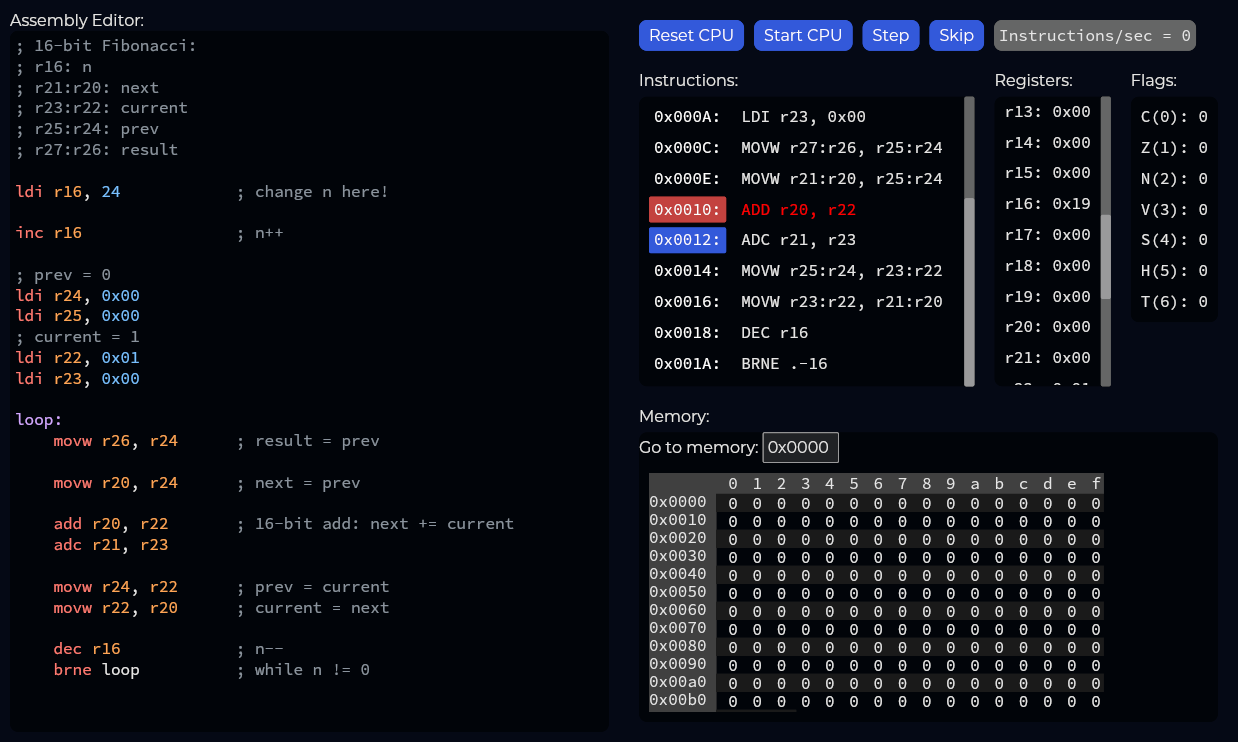
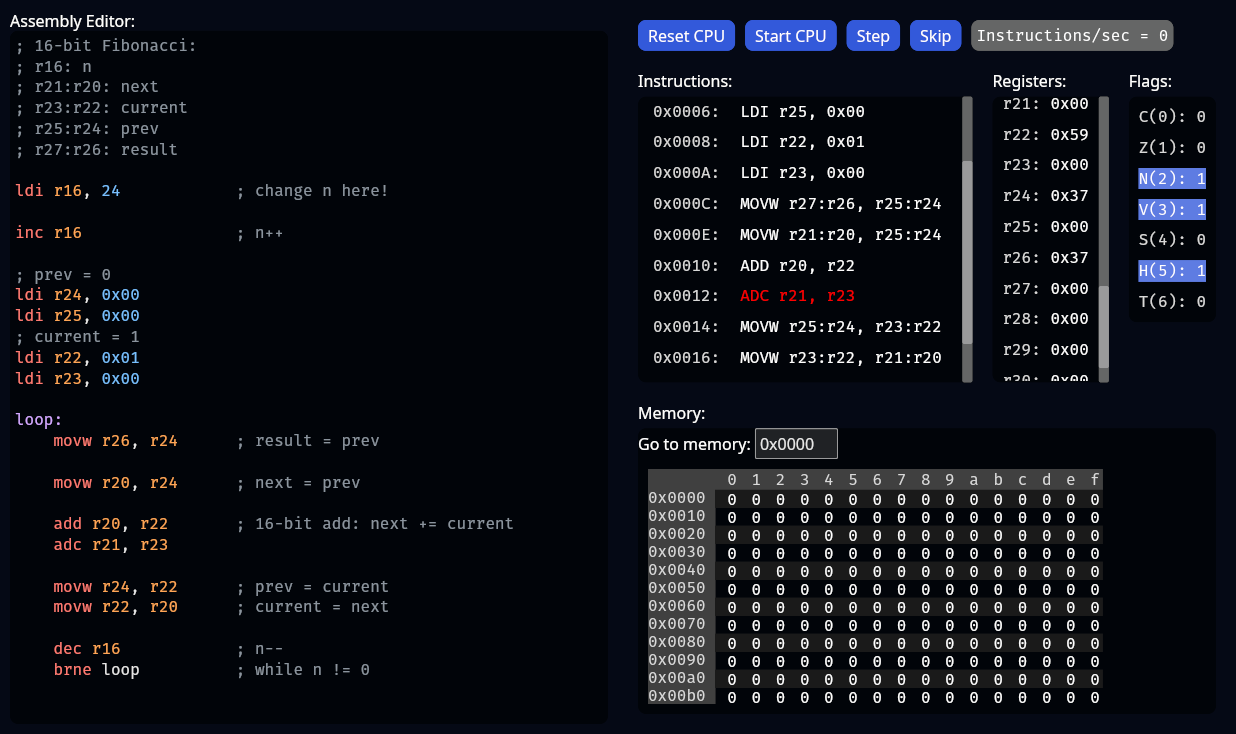
gui: only rerenders on cpu emu change, more text color indicators

diff --git a/ardemu_gui/src/main.rs b/ardemu_gui/src/main.rs
@@ -32,7 +32,7 @@ mod highlighter;
 mod style;
 use style::{
 	background_style, button_style, format_big_number, hidden_secondary_button_style, panel_style,
-	text_editor_style,
+	secondary_text_style, text_editor_style,
 };
 
 mod code_editor;
@@ -60,6 +60,7 @@ struct App {
 	simulate_cpu: bool,
 	cpu_sim: triple_buffer::Output<CpuSim>,
 	cpu_sim_message_sender: std::sync::mpsc::Sender<CpuSimMessage>,
+	cpu_sim_dirty: bool,
 	memory_view_start_address: u32,
 	memory_view_start_address_input: Option<String>,
 	asm_source_code_text_content: text_editor::Content,
@@ -84,9 +85,10 @@ impl Default for App {
 		std::thread::spawn(move || cpu_simulation_thread(receiver, cpu, writable_cpu_sim));
 
 		Self {
-			cpu_sim: readable_cpu_sim,
 			simulate_cpu: false,
+			cpu_sim: readable_cpu_sim,
 			cpu_sim_message_sender: sender,
+			cpu_sim_dirty: false,
 			memory_view_start_address: 0,
 			memory_view_start_address_input: None,
 			asm_source_code_text_content: text_editor::Content::with_text(&asm_source_code),
@@ -118,8 +120,14 @@ impl App {
 
 	fn subscription(&self) -> Subscription<Message> {
 		match &self.asm_program {
-			Ok(_) => window::frames().map(|_| Message::UpdateCpuState),
-			_ => Subscription::none(),
+			Ok(_) if self.simulate_cpu => window::frames().map(|_| Message::UpdateCpuState),
+			_ => {
+				if self.cpu_sim_dirty {
+					window::frames().map(|_| Message::UpdateCpuState)
+				} else {
+					Subscription::none()
+				}
+			}
 		}
 	}
 
@@ -131,6 +139,7 @@ impl App {
 		if let Err(e) = self.cpu_sim_message_sender.send(message) {
 			eprintln!("Could not send CPU sim message: {e}");
 		};
+		self.cpu_sim_dirty = true;
 	}
 
 	fn update(&mut self, message: Message) {
@@ -160,7 +169,9 @@ impl App {
 				self.update(Message::ResetCpu);
 			}
 			Message::UpdateCpuState => {
-				self.cpu_sim.update();
+				if self.cpu_sim.update() {
+					self.cpu_sim_dirty = false;
+				}
 			}
 			Message::AddBreakpoint(address) => {
 				self.send_cpu_sim_message(CpuSimMessage::AddBreakpoint(address));
@@ -258,27 +269,30 @@ impl App {
 										program_counter == program_address;
 
 									row![
-										button(text!("{program_address}:").font(Font::MONOSPACE))
-											.style(move |t, s| {
-												if breakpoint_set_here {
-													if instr_currently_executing {
-														button::danger(t, s)
-													} else {
-														button::primary(t, s)
-													}
+										button(
+											text!("{program_address}:")
+												.font(Font::MONOSPACE)
+												.style(secondary_text_style)
+										)
+										.style(move |t, s| {
+											if breakpoint_set_here {
+												if instr_currently_executing {
+													button::danger(t, s)
 												} else {
-													hidden_secondary_button_style(t, s)
+													button::primary(t, s)
 												}
-											})
-											.padding(Padding::new(2.5).left(5.0).right(5.0))
-											.on_press(
-												if cpu.get_breakpoints().contains(&program_address)
-												{
-													Message::RemoveBreakpoint(program_address)
-												} else {
-													Message::AddBreakpoint(program_address)
-												}
-											),
+											} else {
+												hidden_secondary_button_style(t, s)
+											}
+										})
+										.padding(Padding::new(2.5).left(5.0).right(5.0))
+										.on_press(
+											if cpu.get_breakpoints().contains(&program_address) {
+												Message::RemoveBreakpoint(program_address)
+											} else {
+												Message::AddBreakpoint(program_address)
+											}
+										),
 										text!("{instruction}").font(Font::MONOSPACE).color_maybe(
 											if instr_currently_executing {
 												Some(Color::from_rgb(1.0, 0.0, 0.0))
@@ -316,9 +330,13 @@ impl App {
 					let value = Imm8(cpu.read_register(*reg));
 					let padding_space = if *reg <= R9 { " " } else { "" };
 
-					text(format!("{reg}: {padding_space}{value}"))
-						.font(Font::MONOSPACE)
-						.into()
+					row![
+						text!("{reg}: {padding_space}")
+							.font(Font::MONOSPACE)
+							.style(secondary_text_style),
+						text!("{value}").font(Font::MONOSPACE)
+					]
+					.into()
 				}))
 				.spacing(10)
 				.padding(Padding::new(10.0).right(20))
@@ -334,9 +352,30 @@ impl App {
 			text("Flags:"),
 			container(scrollable(
 				Column::with_children(FlagType::ALL.iter().map(|flag_type| {
-					text!("{flag_type}: {}", cpu.flags().get(*flag_type) as u8)
-						.font(Font::MONOSPACE)
-						.into()
+					let flag_set = cpu.flags().get(*flag_type);
+
+					container(
+						text!("{flag_type}: {}", flag_set as u8)
+							.font(Font::MONOSPACE)
+							.style(if flag_set {
+								move |_t: &Theme| text::Style {
+									color: Some(Color::WHITE),
+								}
+							} else {
+								secondary_text_style
+							}),
+					)
+					.style(move |t: &Theme| {
+						if flag_set {
+							container::Style {
+								background: Some(t.extended_palette().primary.base.color.into()),
+								..Default::default()
+							}
+						} else {
+							container::Style::default()
+						}
+					})
+					.into()
 				}))
 				.spacing(10)
 				.padding(10) //.width(Fill)
@@ -384,7 +423,9 @@ impl App {
 											.saturating_add(index as u32 * Self::BYTES_PER_ROW)
 											as u16,
 									);
-									text!("{address} ").font(Font::MONOSPACE)
+									text!("{address} ")
+										.font(Font::MONOSPACE)
+										.style(secondary_text_style)
 								}
 							}
 							.height(Self::ROW_HEIGHT)
@@ -398,7 +439,10 @@ impl App {
 							mouse_area(column![
 								container(
 									Row::with_children((0..Self::BYTES_PER_ROW).map(|index| {
-										text!("{index:2x}").font(Font::MONOSPACE).into()
+										text!("{index:2x}")
+											.font(Font::MONOSPACE)
+											.style(secondary_text_style)
+											.into()
 									}))
 									.spacing(Self::DATA_COLUMN_SPACING)
 									.padding(Padding::default().left(2.5).right(2.5))

diff --git a/ardemu_gui/src/style.rs b/ardemu_gui/src/style.rs
@@ -1,6 +1,6 @@
 use iced::{
 	border::rounded,
-	widget::{button, container, text_editor},
+	widget::{button, container, text, text_editor},
 	Border, Color, Theme,
 };
 
@@ -99,4 +99,10 @@ pub fn format_big_number(n: usize) -> String {
 		.collect::<Result<Vec<&str>, _>>()
 		.unwrap()
 		.join(",")
+}
+
+pub fn secondary_text_style(_theme: &Theme) -> text::Style {
+	text::Style {
+		color: Some(Color::from_rgb(0.85, 0.85, 0.85)),
+	}
 }
